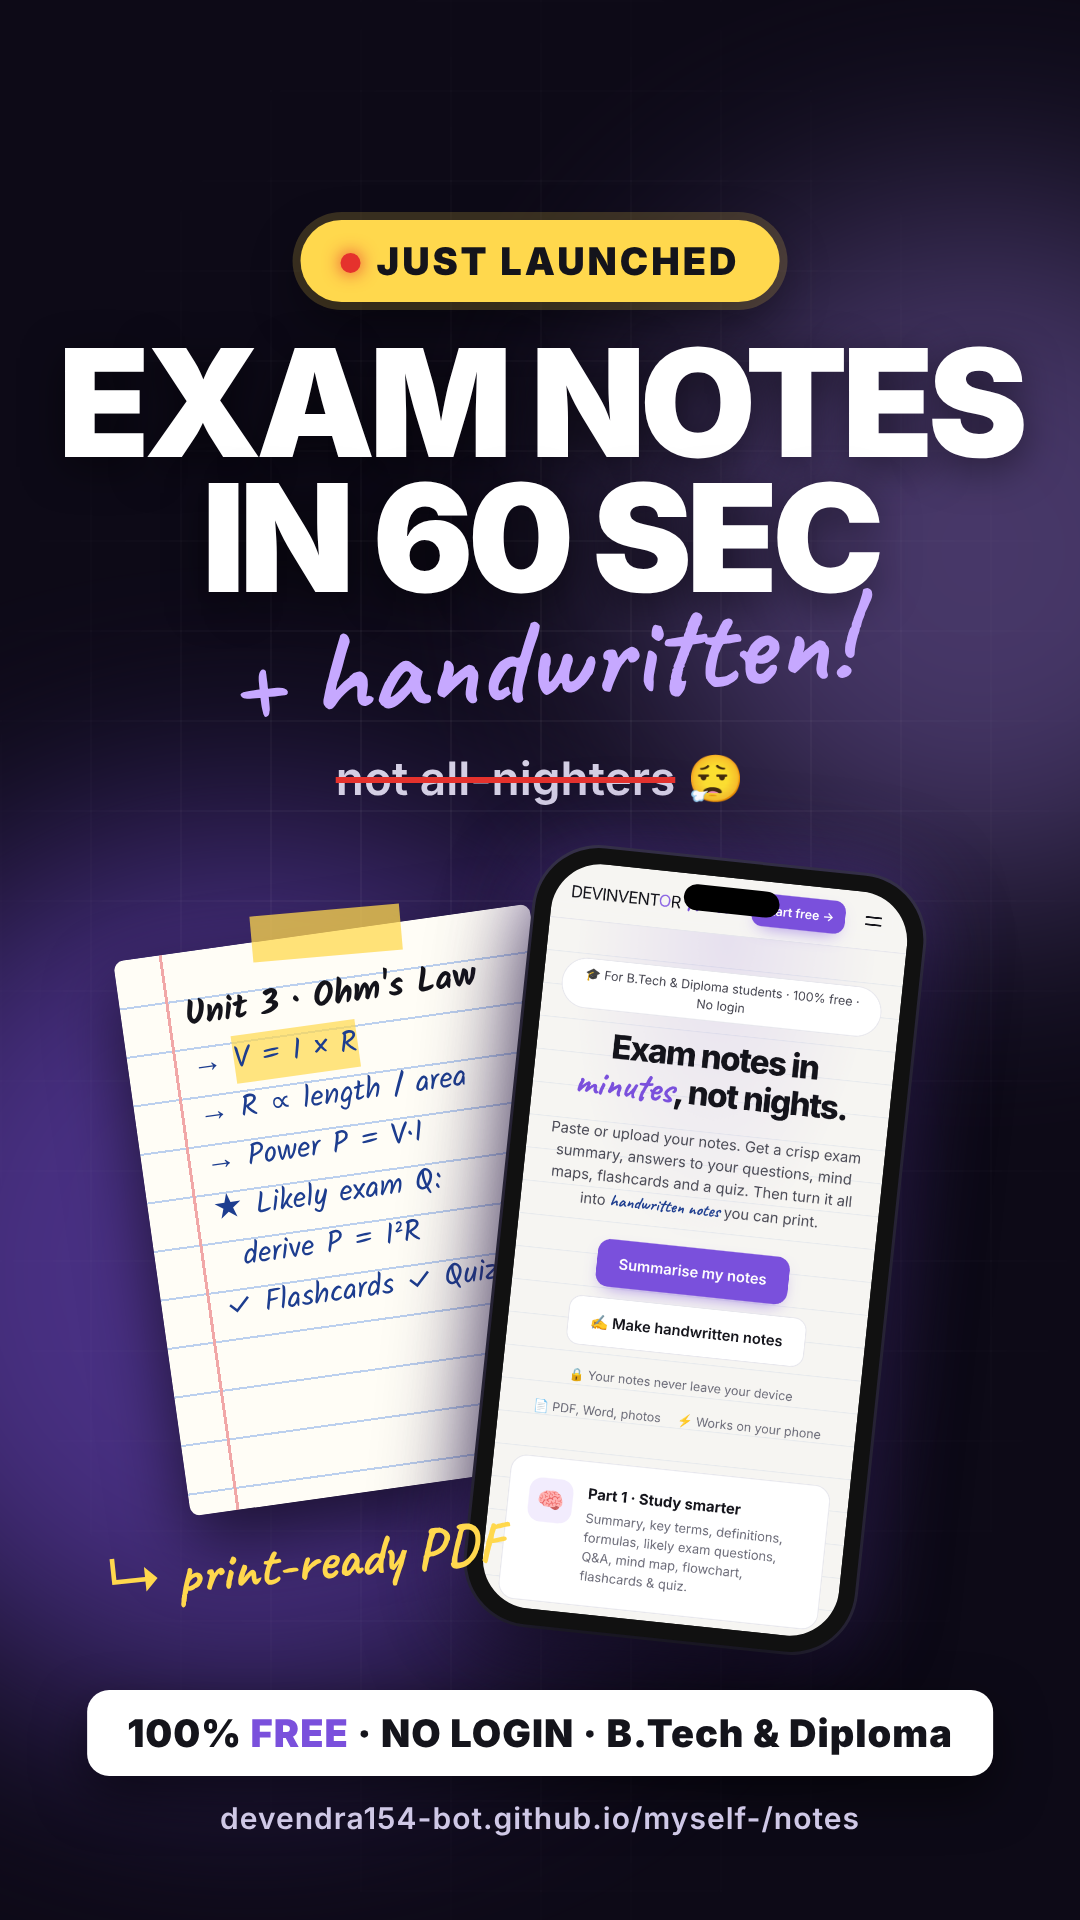
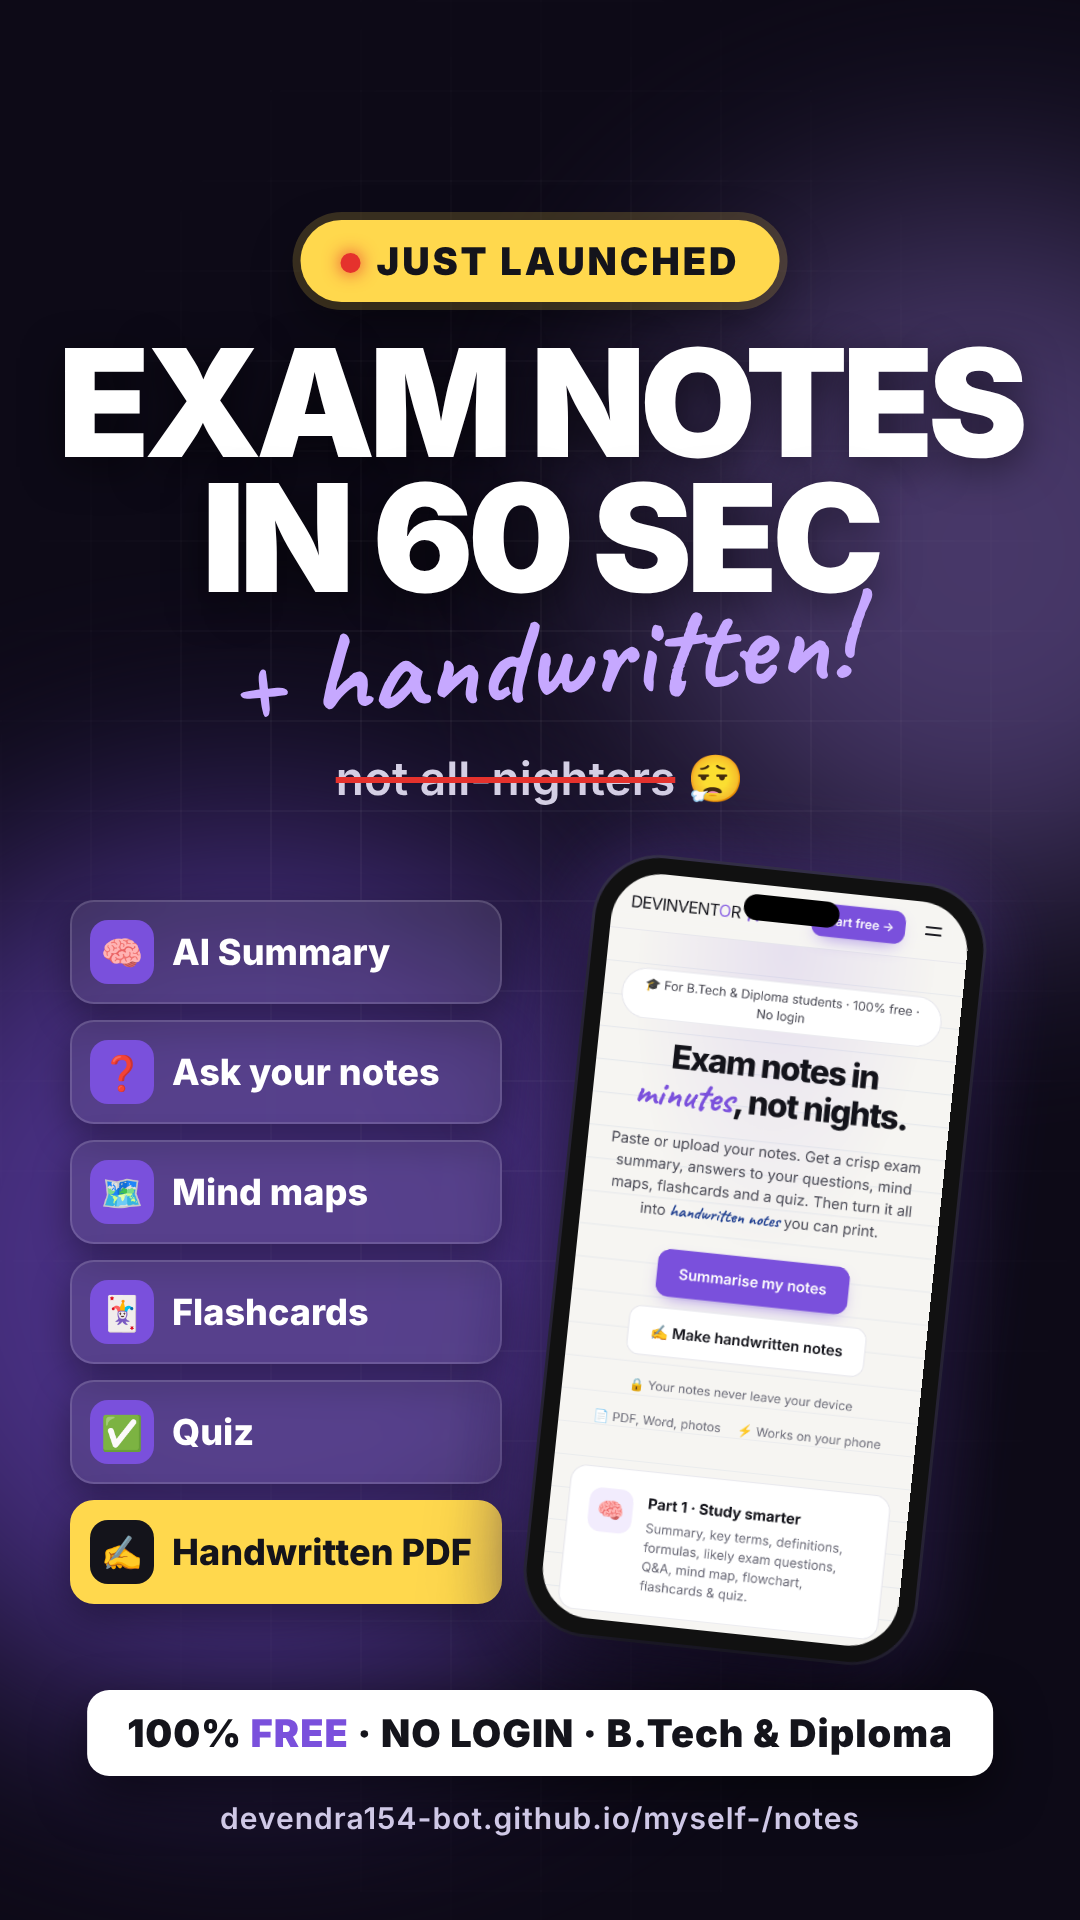
Thumbnail: replace handwritten page with feature list
Claude-Session: https://claude.ai/code/session_01WMA395P5nCJPBAwDEkCdnL

Changed region(s): [[0.0611, 0.4375, 0.9167, 0.875]]

diff --git a/marketing/instareel-thumbnail.html b/marketing/instareel-thumbnail.html
@@ -14,36 +14,32 @@ h1{position:absolute;top:335px;width:100%;text-align:center;white-space:nowrap;f
 .hand u{text-decoration:none;background:none}
 .not{position:absolute;top:750px;width:100%;text-align:center;font-size:46px;font-weight:600;color:#d4cfe4}
 .not s{text-decoration-color:#e5322d;text-decoration-thickness:6px}
-.phone{position:absolute;left:500px;top:860px;width:390px;height:780px;border-radius:64px;background:#111;padding:16px;transform:rotate(6deg);box-shadow:0 40px 90px rgba(0,0,0,.7),0 0 0 3px #3a3550,0 0 80px rgba(122,80,220,.5)}
+.phone{position:absolute;left:560px;top:870px;width:390px;height:780px;border-radius:64px;background:#111;padding:16px;transform:rotate(6deg);box-shadow:0 40px 90px rgba(0,0,0,.7),0 0 0 3px #3a3550,0 0 80px rgba(122,80,220,.5)}
 .phone img{width:100%;height:100%;object-fit:cover;object-position:top;border-radius:50px;display:block}
 .notch{position:absolute;top:26px;left:50%;transform:translateX(-50%);width:96px;height:26px;background:#000;border-radius:20px}
-.paper{position:absolute;left:150px;top:930px;width:420px;height:560px;background:#fffdf6;border-radius:10px;transform:rotate(-8deg);box-shadow:0 30px 70px rgba(0,0,0,.6);padding:40px 34px 0 64px;
-background-image:linear-gradient(90deg,transparent 46px,#f1a7a7 46px,#f1a7a7 49px,transparent 49px),repeating-linear-gradient(#fffdf6 0 47px,#bcd0ee 47px 49px);font-family:Kalam,cursive;color:#1d3d8f;font-size:30px;line-height:49px}
-.paper b{font-weight:700;color:#14141b;font-size:34px}
-.paper .hl{background:rgba(255,216,77,.7)}
-.tape{position:absolute;top:-22px;left:140px;width:150px;height:46px;background:rgba(255,216,77,.75);transform:rotate(3deg)}
-.arrow{position:absolute;left:105px;top:1525px;font-family:Caveat,cursive;font-size:58px;color:#ffd84d;transform:rotate(-6deg)}
-.arrow svg{display:block;margin:-10px 0 0 150px}
 .free{position:absolute;top:1690px;left:50%;transform:translateX(-50%);white-space:nowrap;font-weight:900;font-size:38px;letter-spacing:1px;background:#fff;color:#14141b;padding:20px 40px;border-radius:22px;box-shadow:0 20px 50px rgba(0,0,0,.5)}
 .free span{color:#7a50dc}
 .url{position:absolute;top:1800px;width:100%;text-align:center;font-weight:600;font-size:30px;color:#cfc8e6;letter-spacing:1px}
+.feats{position:absolute;left:70px;top:900px;display:flex;flex-direction:column;gap:16px}
+.f{display:flex;align-items:center;gap:18px;background:rgba(255,255,255,.08);border:2px solid rgba(255,255,255,.14);backdrop-filter:blur(10px);padding:18px 28px 18px 18px;border-radius:24px;font-weight:800;font-size:36px;white-space:nowrap;box-shadow:0 14px 36px rgba(0,0,0,.35)}
+.f i{font-style:normal;width:64px;height:64px;display:grid;place-items:center;background:#7a50dc;border-radius:18px;font-size:34px}
+.f.hl{background:#ffd84d;color:#14141b;border-color:#ffd84d}
+.f.hl i{background:#14141b}
 </style></head><body>
 <div class="glow g1"></div><div class="glow g2"></div><div class="grid"></div>
 <div class="badge"><span class="dot"></span>JUST LAUNCHED</div>
 <h1>Exam notes<br>in 60 sec</h1>
 <div class="hand"><u>+ handwritten!</u></div>
 <div class="not"><s>not all-nighters</s> 😮💨</div>
-<div class="paper"><div class="tape"></div>
-<b>Unit 3 · Ohm's Law</b><br>
-→ <span class="hl">V = I × R</span><br>
-→ R ∝ length / area<br>
-→ Power P = V·I<br>
-★ Likely exam Q:<br>
-&nbsp;&nbsp;derive P = I²R<br>
-✓ Flashcards ✓ Quiz
+<div class="feats">
+<div class="f"><i>🧠</i>AI Summary</div>
+<div class="f"><i>❓</i>Ask your notes</div>
+<div class="f"><i>🗺</i>Mind maps</div>
+<div class="f"><i>🃏</i>Flashcards</div>
+<div class="f"><i>✅</i>Quiz</div>
+<div class="f hl"><i>✍</i>Handwritten PDF</div>
 </div>
 <div class="phone"><img src="site.png"><div class="notch"></div></div>
-<div class="arrow">↳ print-ready PDF</div>
 <div class="free">100% <span>FREE</span> · NO LOGIN · B.Tech &amp; Diploma</div>
 <div class="url">devendra154-bot.github.io/myself-/notes</div>
 </body></html>
